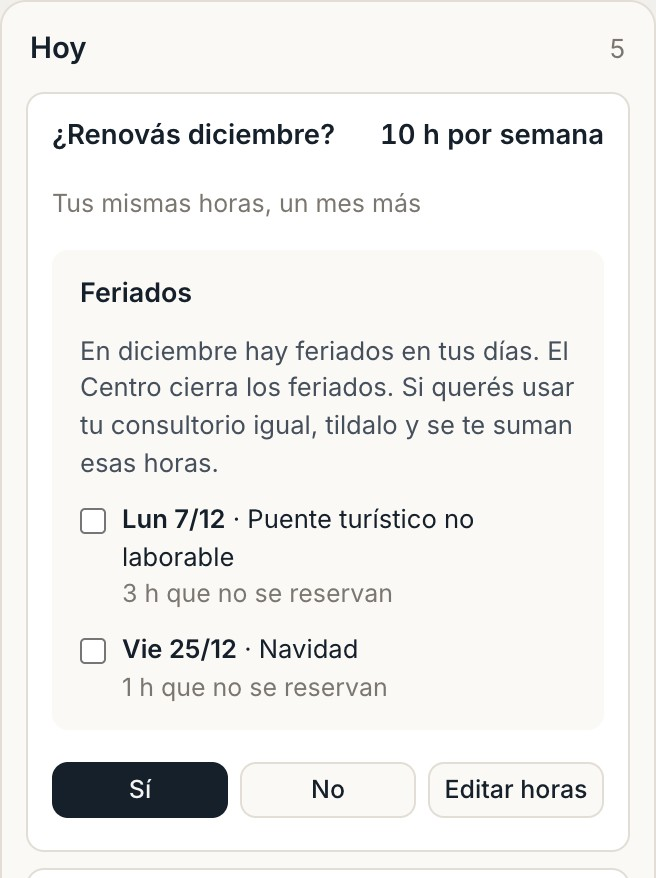
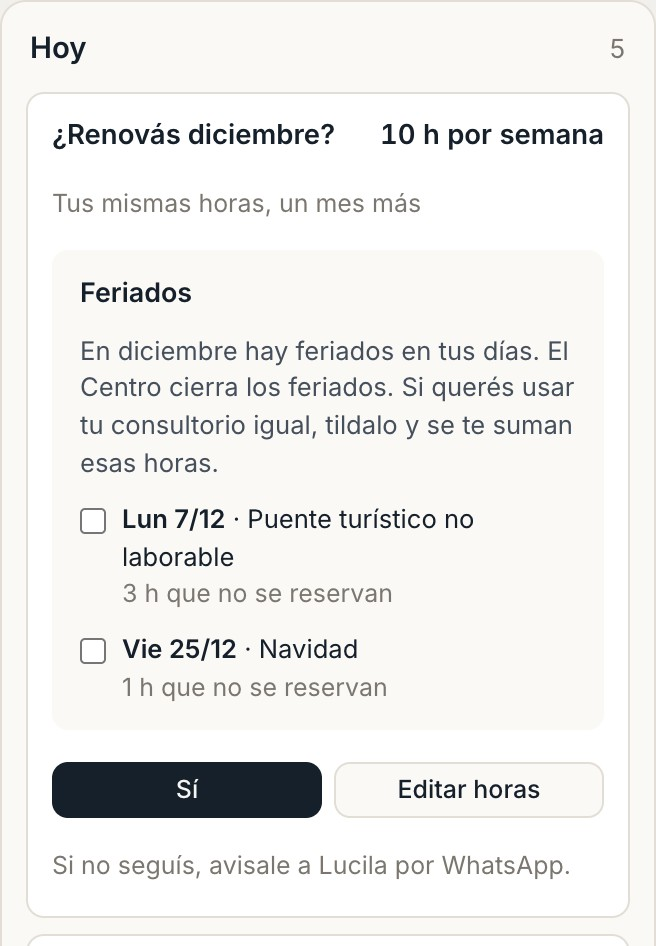
Centro: la renovación sin botón de No
Al lado de Editar horas se confundía con no renovar algunas horas. Quien no
sigue le avisa a Lucila por WhatsApp. Normas 2026-11-10b, manual y captura.

diff --git a/app/centro/manual/contenido.ts b/app/centro/manual/contenido.ts
@@ -125,12 +125,13 @@ export const SECCIONES: Seccion[] = [
     titulo: 'Renovar el mes',
     parrafos: [
       `A partir del ${DIA_DE_RENOVAR} de cada mes, en Inicio te preguntamos si seguís con las mismas horas el mes que viene.`,
-      'Podés seguir igual, avisar que no seguís, o tocar "Editar horas": ahí tocás las horas fijas que ya no vas a usar (quedan tachadas y no se renuevan) y podés sumar horas fijas: elegís día y consultorio, y tocás las horas que están libres todas las semanas.',
+      'Si no seguís, avisale a Lucila por WhatsApp.',
+      'Podés seguir igual tocando "Sí", o tocar "Editar horas": ahí tocás las horas fijas que ya no vas a usar (quedan tachadas y no se renuevan) y podés sumar horas fijas: elegís día y consultorio, y tocás las horas que están libres todas las semanas.',
       'Si no contestás, seguís con las mismas horas. El último día del mes, a las 10, se generan las reservas y el cargo del mes que viene, y desde ahí la respuesta ya no se cambia.',
       'Los feriados el Centro cierra y no se reservan ni se cobran. Si querés usar la sala un feriado, lo elegís al renovar.',
     ],
     capturas: [
-      { archivo: 'renovar.jpg', alt: `Inicio desde el ${DIA_DE_RENOVAR}: la pregunta de si renovás el mes que viene, con Sí, No y Editar horas.`, ancho: 360 },
+      { archivo: 'renovar.jpg', alt: `Inicio desde el ${DIA_DE_RENOVAR}: la pregunta de si renovás el mes que viene, con Sí y Editar horas.`, ancho: 360 },
       { archivo: 'renovar-editar.jpg', alt: 'Editar horas: las horas fijas que no se renuevan, tachadas, y sumar horas fijas eligiendo día, consultorio y horas libres.', ancho: 360 },
     ],
   },

diff --git a/app/centro/normas/contenido.ts b/app/centro/normas/contenido.ts
@@ -47,7 +47,7 @@ export const NORMAS: Bloque[] = [
       `Una hora suelta se puede soltar hasta ${HORAS_PARA_SOLTAR} horas antes de que empiece, con un tope de ${HORAS_LIBERABLES} horas por mes, y no se cobra. Si ya estaba pagada, se devuelve el dinero. Fuera de ese plazo, la hora se cobra igual.`,
       `Una reserva hecha por error se puede deshacer dentro de los ${MINUTOS_PARA_DESHACER} minutos, sin cargo y sin contar para el tope.`,
       'Los feriados el Centro cierra: no se reservan ni se cobran. Quien quiera usar la sala un feriado lo elige al renovar el mes.',
-      `A partir del ${DIA_DE_RENOVAR} de cada mes, el sistema pregunta en Inicio si se sigue con las mismas horas el mes siguiente. Se puede seguir igual, marcar las horas fijas que no se renuevan, sumar horas fijas entre las que están libres todas las semanas, o avisar que no se sigue. Quien no contesta sigue con las mismas horas. El último día del mes, a las 10, se generan las reservas y el cargo del mes siguiente, y desde ahí la respuesta ya no se cambia.`,
+      `A partir del ${DIA_DE_RENOVAR} de cada mes, el sistema pregunta en Inicio si se sigue con las mismas horas el mes siguiente. Se puede seguir igual, o marcar las horas fijas que no se renuevan y sumar horas fijas entre las que están libres todas las semanas. Quien no sigue le avisa a Lucila por WhatsApp. Quien no contesta sigue con las mismas horas. El último día del mes, a las 10, se generan las reservas y el cargo del mes siguiente, y desde ahí la respuesta ya no se cambia.`,
     ],
   },
   {

diff --git a/app/centro/inicio/Renovar.tsx b/app/centro/inicio/Renovar.tsx
@@ -3,7 +3,7 @@
 /**
  * La pregunta del 25: ¿seguís con tus horas el mes que viene?
  *
- * Tres salidas. Sí y No se contestan de un toque. "Editar horas" muestra sus
+ * Dos salidas: Sí, de un toque, y "Editar horas", que muestra sus
  * horas fijas, una por una, y se tocan las que deja: eso se aplica solo al
  * abrirse el mes (`lib/apertura-mes.ts`). Lo que quiere sumar se escribe,
  * porque depende de qué esté libre y lo arma el equipo. Hasta el 10/11/2026
@@ -364,13 +364,16 @@ export default function Renovar({
           <button type="button" className="firme" onClick={() => responder('si')} disabled={enviando}>
             Sí
           </button>
-          <button type="button" onClick={() => responder('no')} disabled={enviando}>
-            No
-          </button>
           <button type="button" onClick={() => setEditando(true)} disabled={enviando}>
             Editar horas
           </button>
         </div>
+      )}
+      {/* Sin botón de "No" (decisión de Agustín, 10/11/2026): al lado de
+          "Editar horas" se confundía con no renovar algunas horas. Quien no
+          sigue lo habla con Lucila, que termina sus bandas desde la ficha. */}
+      {!contestada && !editando && (
+        <small className="centro-renovar-cerrado">Si no seguís, avisale a Lucila por WhatsApp.</small>
       )}
     </article>
   );

diff --git a/lib/centro-acceso.ts b/lib/centro-acceso.ts
@@ -48,4 +48,4 @@ export const HORAS_DEL_ENLACE = 48;
 
 /** La versión del documento de convivencia que se acepta al entrar. El texto
  *  vive en `app/centro/normas/contenido.ts`; al cambiarlo se sube esto. */
-export const NORMAS_VERSION = '2026-11-10';
+export const NORMAS_VERSION = '2026-11-10b';
